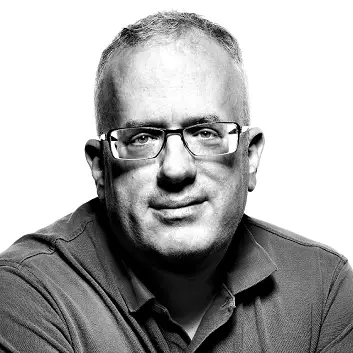
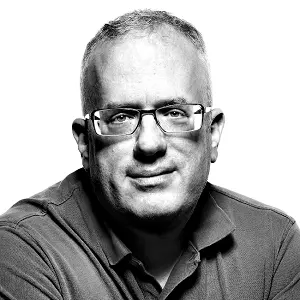
Updates

diff --git a/css/styles.css b/css/styles.css
@@ -1,1 +1,1 @@
-:root{--primary: #000000;--inverted: #ffffff;--light-grey: #948a82;--yellow: #ffe32d;--blue: #000080;--border: 3px solid var(--primary);--transition: .5s;--el-size: 4rem;--rounded-el-radius: 50%}*,*::before,*::after{box-sizing:border-box}html,body{font-weight:400 !important;font-style:normal;font-size:1rem;line-height:1.5;font-family:"Raleway",sans-serif;background-color:var(--light-grey)}html{scroll-behavior:smooth}a{color:var(--blue)}a:hover{text-decoration:underline !important}.center{display:flex;align-items:center;justify-content:center}.rounded-el{width:var(--el-size);height:var(--el-size);border-radius:var(--rounded-el-radius)}.scrollToTop{cursor:pointer;bottom:50rem;right:1.25rem;z-index:100000;border:var(--border);background-color:var(--yellow);visibility:hidden;opacity:0;transform:translateY(30%);transition:var(--transition);box-shadow:0 .625rem 3.125rem .625rem rgba(0,0,0,.5)}.scrollToTop.active{visibility:visible;opacity:1;bottom:25%}.scrollToTop:hover{background-color:var(--inverted)}#main{margin:0 auto;overflow-x:hidden;background-color:var(--light-grey)}.hero-container{border:var(--border);background-color:var(--inverted);box-shadow:0 .625rem 3.125rem .625rem rgba(0,0,0,.5)}.hero-container .img-container img{border:var(--border);box-shadow:0 .625rem 3.125rem .625rem rgba(0,0,0,.5);border-radius:var(--rounded-el-radius)}.hero-container .hero-caption{color:var(--primary);border-top:var(--border);background-color:var(--yellow);border-bottom-left-radius:.85rem;border-bottom-right-radius:.85rem}.main-timeline-content:after{content:"";top:0;left:50%;bottom:0;width:.1875rem;margin-left:-0.1875rem;position:absolute;background-color:var(--primary)}.main-timeline-content .timeline-content{width:50%}.main-timeline-content .timeline-content .timeline-dot{content:"";width:1.0625rem;height:1.0625rem;top:.875rem;right:-0.4375rem;z-index:1;background-color:var(--primary);border-radius:var(--rounded-el-radius)}.main-timeline-content .timeline-content.left-side{left:0;padding:0 2.5rem 1.25rem 0}.main-timeline-content .timeline-content.left-side .card:before{right:-0.625rem}.main-timeline-content .timeline-content.right-side{left:50%;padding:0 0 1.25rem 2.5rem}.main-timeline-content .timeline-content.right-side .timeline-dot{left:-0.625rem}.main-timeline-content .timeline-content.right-side .card:before{left:-0.625rem;transform:rotateY(180deg)}.main-timeline-content .timeline-content.left-side .card,.main-timeline-content .timeline-content.right-side .card{border:.1875rem solid var(--primary);background-color:var(--inverted)}.main-timeline-content .timeline-content.left-side .card:before,.main-timeline-content .timeline-content.right-side .card:before{content:" ";position:absolute;top:.625rem;z-index:1;border:var(--border);border-width:.625rem 0 .625rem .625rem;border-color:rgba(0,0,0,0) rgba(0,0,0,0) rgba(0,0,0,0) var(--primary)}.main-timeline-content .timeline-content.left-side .card .card-header,.main-timeline-content .timeline-content.right-side .card .card-header{background-color:var(--yellow);border-color:var(--primary);border-width:.1875rem;line-height:1}.main-timeline-content .timeline-content.left-side .card .card-body,.main-timeline-content .timeline-content.right-side .card .card-body{padding:.5rem 1rem}blockquote p,blockquote cite{color:var(--primary)}blockquote span{color:var(--inverted)}blockquote .quote-left,blockquote .quote-right{width:2rem;height:2rem}blockquote .quote-left{left:-1rem;top:-1rem}blockquote .quote-right{right:-1rem;bottom:-1rem}.socials-container{overflow:hidden}.socials-container h3{color:var(--primary)}.socials-container .social-links{max-width:30rem;gap:.5rem}.socials-container .social-links div{background-color:var(--inverted);border:.1875rem solid var(--yellow);border-radius:var(--rounded-el-radius);height:var(--el-size);width:var(--el-size);transition:all .5s ease-out}.socials-container .social-links div.website-link .link-dark,.socials-container .social-links div.website-link .link-light,.socials-container .social-links div.website-link .fb-logo-dark,.socials-container .social-links div.website-link .fb-logo-light,.socials-container .social-links div.website-link .fa-twitter,.socials-container .social-links div.website-link .fa-instagram,.socials-container .social-links div.fb-logo .link-dark,.socials-container .social-links div.fb-logo .link-light,.socials-container .social-links div.fb-logo .fb-logo-dark,.socials-container .social-links div.fb-logo .fb-logo-light,.socials-container .social-links div.fb-logo .fa-twitter,.socials-container .social-links div.fb-logo .fa-instagram,.socials-container .social-links div.twitter-logo .link-dark,.socials-container .social-links div.twitter-logo .link-light,.socials-container .social-links div.twitter-logo .fb-logo-dark,.socials-container .social-links div.twitter-logo .fb-logo-light,.socials-container .social-links div.twitter-logo .fa-twitter,.socials-container .social-links div.twitter-logo .fa-instagram,.socials-container .social-links div.instagram-logo .link-dark,.socials-container .social-links div.instagram-logo .link-light,.socials-container .social-links div.instagram-logo .fb-logo-dark,.socials-container .social-links div.instagram-logo .fb-logo-light,.socials-container .social-links div.instagram-logo .fa-twitter,.socials-container .social-links div.instagram-logo .fa-instagram,.socials-container .social-links div.mastodon-logo .link-dark,.socials-container .social-links div.mastodon-logo .link-light,.socials-container .social-links div.mastodon-logo .fb-logo-dark,.socials-container .social-links div.mastodon-logo .fb-logo-light,.socials-container .social-links div.mastodon-logo .fa-twitter,.socials-container .social-links div.mastodon-logo .fa-instagram{width:2.5rem;height:2.5rem}.socials-container .social-links div.website-link .link-light,.socials-container .social-links div.website-link .fb-logo-light,.socials-container .social-links div.website-link .twitter-light,.socials-container .social-links div.website-link .instagram-light,.socials-container .social-links div.website-link .mastodon-light,.socials-container .social-links div.fb-logo .link-light,.socials-container .social-links div.fb-logo .fb-logo-light,.socials-container .social-links div.fb-logo .twitter-light,.socials-container .social-links div.fb-logo .instagram-light,.socials-container .social-links div.fb-logo .mastodon-light,.socials-container .social-links div.twitter-logo .link-light,.socials-container .social-links div.twitter-logo .fb-logo-light,.socials-container .social-links div.twitter-logo .twitter-light,.socials-container .social-links div.twitter-logo .instagram-light,.socials-container .social-links div.twitter-logo .mastodon-light,.socials-container .social-links div.instagram-logo .link-light,.socials-container .social-links div.instagram-logo .fb-logo-light,.socials-container .social-links div.instagram-logo .twitter-light,.socials-container .social-links div.instagram-logo .instagram-light,.socials-container .social-links div.instagram-logo .mastodon-light,.socials-container .social-links div.mastodon-logo .link-light,.socials-container .social-links div.mastodon-logo .fb-logo-light,.socials-container .social-links div.mastodon-logo .twitter-light,.socials-container .social-links div.mastodon-logo .instagram-light,.socials-container .social-links div.mastodon-logo .mastodon-light{display:none}.socials-container .social-links div.website-link:hover .link-dark,.socials-container .social-links div.website-link:hover .fb-logo-dark,.socials-container .social-links div.website-link:hover .twitter-dark,.socials-container .social-links div.website-link:hover .instagram-dark,.socials-container .social-links div.website-link:hover .mastodon-dark,.socials-container .social-links div.fb-logo:hover .link-dark,.socials-container .social-links div.fb-logo:hover .fb-logo-dark,.socials-container .social-links div.fb-logo:hover .twitter-dark,.socials-container .social-links div.fb-logo:hover .instagram-dark,.socials-container .social-links div.fb-logo:hover .mastodon-dark,.socials-container .social-links div.twitter-logo:hover .link-dark,.socials-container .social-links div.twitter-logo:hover .fb-logo-dark,.socials-container .social-links div.twitter-logo:hover .twitter-dark,.socials-container .social-links div.twitter-logo:hover .instagram-dark,.socials-container .social-links div.twitter-logo:hover .mastodon-dark,.socials-container .social-links div.instagram-logo:hover .link-dark,.socials-container .social-links div.instagram-logo:hover .fb-logo-dark,.socials-container .social-links div.instagram-logo:hover .twitter-dark,.socials-container .social-links div.instagram-logo:hover .instagram-dark,.socials-container .social-links div.instagram-logo:hover .mastodon-dark,.socials-container .social-links div.mastodon-logo:hover .link-dark,.socials-container .social-links div.mastodon-logo:hover .fb-logo-dark,.socials-container .social-links div.mastodon-logo:hover .twitter-dark,.socials-container .social-links div.mastodon-logo:hover .instagram-dark,.socials-container .social-links div.mastodon-logo:hover .mastodon-dark{display:none}.socials-container .social-links div.website-link:hover .link-light,.socials-container .social-links div.website-link:hover .fb-logo-light,.socials-container .social-links div.website-link:hover .twitter-light,.socials-container .social-links div.website-link:hover .instagram-light,.socials-container .social-links div.website-link:hover .mastodon-light,.socials-container .social-links div.fb-logo:hover .link-light,.socials-container .social-links div.fb-logo:hover .fb-logo-light,.socials-container .social-links div.fb-logo:hover .twitter-light,.socials-container .social-links div.fb-logo:hover .instagram-light,.socials-container .social-links div.fb-logo:hover .mastodon-light,.socials-container .social-links div.twitter-logo:hover .link-light,.socials-container .social-links div.twitter-logo:hover .fb-logo-light,.socials-container .social-links div.twitter-logo:hover .twitter-light,.socials-container .social-links div.twitter-logo:hover .instagram-light,.socials-container .social-links div.twitter-logo:hover .mastodon-light,.socials-container .social-links div.instagram-logo:hover .link-light,.socials-container .social-links div.instagram-logo:hover .fb-logo-light,.socials-container .social-links div.instagram-logo:hover .twitter-light,.socials-container .social-links div.instagram-logo:hover .instagram-light,.socials-container .social-links div.instagram-logo:hover .mastodon-light,.socials-container .social-links div.mastodon-logo:hover .link-light,.socials-container .social-links div.mastodon-logo:hover .fb-logo-light,.socials-container .social-links div.mastodon-logo:hover .twitter-light,.socials-container .social-links div.mastodon-logo:hover .instagram-light,.socials-container .social-links div.mastodon-logo:hover .mastodon-light{display:flex}.socials-container .social-links div:hover{transform:translateY(-25%);transition:var(--transition);background-color:var(--primary)}.socials-container .social-links div a{padding:.75rem;color:var(--primary)}.socials-container .wiki-ref .wiki-link{color:var(--inverted)}.fade-in-right[data-scroll]{opacity:0;will-change:transform,scale,opacity;transform:translateY(6rem) scale(0.93);transition:all 1.5s cubic-bezier(0.165, 0.84, 0.44, 1)}.fade-in-left[data-scroll]{opacity:0;will-change:transform,scale,opacity;transform:translatex(-6rem) scale(0.93);transition:all 1.5s cubic-bezier(0.165, 0.84, 0.44, 1)}.fade-in-right[data-scroll=in],.fade-in-left[data-scroll=in]{opacity:1;transform:translateY(0) scale(1)}#footer{background-color:var(--yellow);border:var(--border)}#footer p{color:var(--primary)}#footer p a{color:var(--blue)}@media(max-width: 767px){#main h1.fs-2,#main p.fs-2,#main span.fs-2{font-size:1.5rem !important}#main .hero-caption .lead{font-size:1.125rem !important}#main .main-timeline-content:after{left:.375rem}#main .main-timeline-content .timeline-content{width:100%;padding-left:1.875rem;padding-right:0}#main .main-timeline-content .timeline-content .timeline-dot{left:-0.25rem}#main .main-timeline-content .timeline-content:before{left:2.875rem;border:var(--border);border-width:.625rem .625rem .625rem 0;border-color:rgba(0,0,0,0) var(--primary) rgba(0,0,0,0) rgba(0,0,0,0)}#main .main-timeline-content .timeline-content.left-side .card:before{right:100%;transform:rotateY(180deg)}#main .main-timeline-content .timeline-content.right-side{left:0%}#main .main-timeline-content .timeline-content.left-side::after,#main .main-timeline-content .timeline-content.right-side::after{left:-0.5rem}#main .socials-container .social-links div{width:3rem;height:3rem}#main .socials-container .social-links div.website-link .link-light,#main .socials-container .social-links div.website-link .link-dark{width:1.5rem;height:1.5rem}#main .socials-container .social-links div.fb-logo .fb-logo-light,#main .socials-container .social-links div.fb-logo .fb-logo-dark{width:2rem;height:2rem}#main .socials-container .social-links div a{padding:.5rem}}@media(min-width: 768px){p.fs-6{font-size:1.25rem !important}h2.small,span.small{font-size:1.125rem !important}.clock-icon{margin-bottom:.25rem}.social-links{gap:2rem !important}}@media(min-width: 1200px){p.fs-2,h3.fs-2{font-size:1.5rem !important}}
+:root{--primary: #000000;--inverted: #ffffff;--light-grey: #948a82;--yellow: #ffe32d;--blue: #000080;--border: 3px solid var(--primary);--transition: .5s;--el-size: 4rem;--rounded-el-radius: 50%}*,*::before,*::after{box-sizing:border-box}html,body{font-weight:400 !important;font-style:normal;font-size:1rem;line-height:1.5;font-family:"Raleway",sans-serif;background-color:var(--light-grey)}html{scroll-behavior:smooth}a{color:var(--blue)}a:hover{text-decoration:underline !important}.center{display:flex;align-items:center;justify-content:center}.rounded-el{width:var(--el-size);height:var(--el-size);border-radius:var(--rounded-el-radius)}.scrollToTop{cursor:pointer;bottom:50rem;right:1.25rem;z-index:100000;border:var(--border);background-color:var(--yellow);visibility:hidden;opacity:0;transform:translateY(30%);transition:var(--transition);box-shadow:0 .625rem 3.125rem .625rem rgba(0,0,0,.5)}.scrollToTop.active{visibility:visible;opacity:1;bottom:25%}.scrollToTop:hover{background-color:var(--inverted)}#main{margin:0 auto;overflow-x:hidden;background-color:var(--light-grey)}.hero-container{border:var(--border);background-color:var(--inverted);box-shadow:0 .625rem 3.125rem .625rem rgba(0,0,0,.5)}.hero-container .img-container img{border:var(--border);box-shadow:0 .625rem 3.125rem .625rem rgba(0,0,0,.5);border-radius:var(--rounded-el-radius)}.hero-container .img-container img#hero-img-small{display:flex}.hero-container .img-container img#hero-img-large{display:none}.hero-container .hero-caption{color:var(--primary);border-top:var(--border);background-color:var(--yellow);border-bottom-left-radius:.85rem;border-bottom-right-radius:.85rem}.main-timeline-content:after{content:"";top:0;left:50%;bottom:0;width:.1875rem;margin-left:-0.1875rem;position:absolute;background-color:var(--primary)}.main-timeline-content .timeline-content{width:50%}.main-timeline-content .timeline-content .timeline-dot{content:"";width:1.0625rem;height:1.0625rem;top:.875rem;right:-0.4375rem;z-index:1;background-color:var(--primary);border-radius:var(--rounded-el-radius)}.main-timeline-content .timeline-content.left-side{left:0;padding:0 2.5rem 1.25rem 0}.main-timeline-content .timeline-content.left-side .card:before{right:-0.625rem}.main-timeline-content .timeline-content.right-side{left:50%;padding:0 0 1.25rem 2.5rem}.main-timeline-content .timeline-content.right-side .timeline-dot{left:-0.625rem}.main-timeline-content .timeline-content.right-side .card:before{left:-0.625rem;transform:rotateY(180deg)}.main-timeline-content .timeline-content.left-side .card,.main-timeline-content .timeline-content.right-side .card{border:.1875rem solid var(--primary);background-color:var(--inverted)}.main-timeline-content .timeline-content.left-side .card:before,.main-timeline-content .timeline-content.right-side .card:before{content:" ";position:absolute;top:.625rem;z-index:1;border:var(--border);border-width:.625rem 0 .625rem .625rem;border-color:rgba(0,0,0,0) rgba(0,0,0,0) rgba(0,0,0,0) var(--primary)}.main-timeline-content .timeline-content.left-side .card .card-header,.main-timeline-content .timeline-content.right-side .card .card-header{background-color:var(--yellow);border-color:var(--primary);border-width:.1875rem;line-height:1}.main-timeline-content .timeline-content.left-side .card .card-body,.main-timeline-content .timeline-content.right-side .card .card-body{padding:.5rem 1rem}blockquote p,blockquote cite{color:var(--primary)}blockquote span{color:var(--inverted)}blockquote .quote-left,blockquote .quote-right{width:2rem;height:2rem}blockquote .quote-left{left:-1rem;top:-1rem}blockquote .quote-right{right:-1rem;bottom:-1rem}.socials-container{overflow:hidden}.socials-container h3{color:var(--primary)}.socials-container .social-links{max-width:30rem;gap:.5rem}.socials-container .social-links div{background-color:var(--inverted);border:.1875rem solid var(--yellow);border-radius:var(--rounded-el-radius);height:var(--el-size);width:var(--el-size);transition:all .5s ease-out}.socials-container .social-links div.website-link .link-dark,.socials-container .social-links div.website-link .link-light,.socials-container .social-links div.website-link .fb-logo-dark,.socials-container .social-links div.website-link .fb-logo-light,.socials-container .social-links div.website-link .fa-twitter,.socials-container .social-links div.website-link .fa-instagram,.socials-container .social-links div.fb-logo .link-dark,.socials-container .social-links div.fb-logo .link-light,.socials-container .social-links div.fb-logo .fb-logo-dark,.socials-container .social-links div.fb-logo .fb-logo-light,.socials-container .social-links div.fb-logo .fa-twitter,.socials-container .social-links div.fb-logo .fa-instagram,.socials-container .social-links div.twitter-logo .link-dark,.socials-container .social-links div.twitter-logo .link-light,.socials-container .social-links div.twitter-logo .fb-logo-dark,.socials-container .social-links div.twitter-logo .fb-logo-light,.socials-container .social-links div.twitter-logo .fa-twitter,.socials-container .social-links div.twitter-logo .fa-instagram,.socials-container .social-links div.instagram-logo .link-dark,.socials-container .social-links div.instagram-logo .link-light,.socials-container .social-links div.instagram-logo .fb-logo-dark,.socials-container .social-links div.instagram-logo .fb-logo-light,.socials-container .social-links div.instagram-logo .fa-twitter,.socials-container .social-links div.instagram-logo .fa-instagram,.socials-container .social-links div.mastodon-logo .link-dark,.socials-container .social-links div.mastodon-logo .link-light,.socials-container .social-links div.mastodon-logo .fb-logo-dark,.socials-container .social-links div.mastodon-logo .fb-logo-light,.socials-container .social-links div.mastodon-logo .fa-twitter,.socials-container .social-links div.mastodon-logo .fa-instagram{width:2.5rem;height:2.5rem}.socials-container .social-links div.website-link .link-light,.socials-container .social-links div.website-link .fb-logo-light,.socials-container .social-links div.website-link .twitter-light,.socials-container .social-links div.website-link .instagram-light,.socials-container .social-links div.website-link .mastodon-light,.socials-container .social-links div.fb-logo .link-light,.socials-container .social-links div.fb-logo .fb-logo-light,.socials-container .social-links div.fb-logo .twitter-light,.socials-container .social-links div.fb-logo .instagram-light,.socials-container .social-links div.fb-logo .mastodon-light,.socials-container .social-links div.twitter-logo .link-light,.socials-container .social-links div.twitter-logo .fb-logo-light,.socials-container .social-links div.twitter-logo .twitter-light,.socials-container .social-links div.twitter-logo .instagram-light,.socials-container .social-links div.twitter-logo .mastodon-light,.socials-container .social-links div.instagram-logo .link-light,.socials-container .social-links div.instagram-logo .fb-logo-light,.socials-container .social-links div.instagram-logo .twitter-light,.socials-container .social-links div.instagram-logo .instagram-light,.socials-container .social-links div.instagram-logo .mastodon-light,.socials-container .social-links div.mastodon-logo .link-light,.socials-container .social-links div.mastodon-logo .fb-logo-light,.socials-container .social-links div.mastodon-logo .twitter-light,.socials-container .social-links div.mastodon-logo .instagram-light,.socials-container .social-links div.mastodon-logo .mastodon-light{display:none}.socials-container .social-links div.website-link:hover .link-dark,.socials-container .social-links div.website-link:hover .fb-logo-dark,.socials-container .social-links div.website-link:hover .twitter-dark,.socials-container .social-links div.website-link:hover .instagram-dark,.socials-container .social-links div.website-link:hover .mastodon-dark,.socials-container .social-links div.fb-logo:hover .link-dark,.socials-container .social-links div.fb-logo:hover .fb-logo-dark,.socials-container .social-links div.fb-logo:hover .twitter-dark,.socials-container .social-links div.fb-logo:hover .instagram-dark,.socials-container .social-links div.fb-logo:hover .mastodon-dark,.socials-container .social-links div.twitter-logo:hover .link-dark,.socials-container .social-links div.twitter-logo:hover .fb-logo-dark,.socials-container .social-links div.twitter-logo:hover .twitter-dark,.socials-container .social-links div.twitter-logo:hover .instagram-dark,.socials-container .social-links div.twitter-logo:hover .mastodon-dark,.socials-container .social-links div.instagram-logo:hover .link-dark,.socials-container .social-links div.instagram-logo:hover .fb-logo-dark,.socials-container .social-links div.instagram-logo:hover .twitter-dark,.socials-container .social-links div.instagram-logo:hover .instagram-dark,.socials-container .social-links div.instagram-logo:hover .mastodon-dark,.socials-container .social-links div.mastodon-logo:hover .link-dark,.socials-container .social-links div.mastodon-logo:hover .fb-logo-dark,.socials-container .social-links div.mastodon-logo:hover .twitter-dark,.socials-container .social-links div.mastodon-logo:hover .instagram-dark,.socials-container .social-links div.mastodon-logo:hover .mastodon-dark{display:none}.socials-container .social-links div.website-link:hover .link-light,.socials-container .social-links div.website-link:hover .fb-logo-light,.socials-container .social-links div.website-link:hover .twitter-light,.socials-container .social-links div.website-link:hover .instagram-light,.socials-container .social-links div.website-link:hover .mastodon-light,.socials-container .social-links div.fb-logo:hover .link-light,.socials-container .social-links div.fb-logo:hover .fb-logo-light,.socials-container .social-links div.fb-logo:hover .twitter-light,.socials-container .social-links div.fb-logo:hover .instagram-light,.socials-container .social-links div.fb-logo:hover .mastodon-light,.socials-container .social-links div.twitter-logo:hover .link-light,.socials-container .social-links div.twitter-logo:hover .fb-logo-light,.socials-container .social-links div.twitter-logo:hover .twitter-light,.socials-container .social-links div.twitter-logo:hover .instagram-light,.socials-container .social-links div.twitter-logo:hover .mastodon-light,.socials-container .social-links div.instagram-logo:hover .link-light,.socials-container .social-links div.instagram-logo:hover .fb-logo-light,.socials-container .social-links div.instagram-logo:hover .twitter-light,.socials-container .social-links div.instagram-logo:hover .instagram-light,.socials-container .social-links div.instagram-logo:hover .mastodon-light,.socials-container .social-links div.mastodon-logo:hover .link-light,.socials-container .social-links div.mastodon-logo:hover .fb-logo-light,.socials-container .social-links div.mastodon-logo:hover .twitter-light,.socials-container .social-links div.mastodon-logo:hover .instagram-light,.socials-container .social-links div.mastodon-logo:hover .mastodon-light{display:flex}.socials-container .social-links div:hover{transform:translateY(-25%);transition:var(--transition);background-color:var(--primary)}.socials-container .social-links div a{padding:.75rem;color:var(--primary)}.socials-container .wiki-ref .wiki-link{color:var(--inverted)}.fade-in-right[data-scroll]{opacity:0;will-change:transform,scale,opacity;transform:translateY(6rem) scale(0.93);transition:all 1.5s cubic-bezier(0.165, 0.84, 0.44, 1)}.fade-in-left[data-scroll]{opacity:0;will-change:transform,scale,opacity;transform:translatex(-6rem) scale(0.93);transition:all 1.5s cubic-bezier(0.165, 0.84, 0.44, 1)}.fade-in-right[data-scroll=in],.fade-in-left[data-scroll=in]{opacity:1;transform:translateY(0) scale(1)}#footer{background-color:var(--yellow);border:var(--border)}#footer p{color:var(--primary)}#footer p a{color:var(--blue)}@media(max-width: 767px){#main h1.fs-2,#main p.fs-2,#main span.fs-2{font-size:1.5rem !important}#main .hero-caption .lead{font-size:1.125rem !important}#main .main-timeline-content:after{left:.375rem}#main .main-timeline-content .timeline-content{width:100%;padding-left:1.875rem;padding-right:0}#main .main-timeline-content .timeline-content .timeline-dot{left:-0.25rem}#main .main-timeline-content .timeline-content:before{left:2.875rem;border:var(--border);border-width:.625rem .625rem .625rem 0;border-color:rgba(0,0,0,0) var(--primary) rgba(0,0,0,0) rgba(0,0,0,0)}#main .main-timeline-content .timeline-content.left-side .card:before{right:100%;transform:rotateY(180deg)}#main .main-timeline-content .timeline-content.right-side{left:0%}#main .main-timeline-content .timeline-content.left-side::after,#main .main-timeline-content .timeline-content.right-side::after{left:-0.5rem}#main .socials-container .social-links div{width:3rem;height:3rem}#main .socials-container .social-links div.website-link .link-light,#main .socials-container .social-links div.website-link .link-dark{width:1.5rem;height:1.5rem}#main .socials-container .social-links div.fb-logo .fb-logo-light,#main .socials-container .social-links div.fb-logo .fb-logo-dark{width:2rem;height:2rem}#main .socials-container .social-links div a{padding:.5rem}}@media(min-width: 768px){p.fs-6{font-size:1.25rem !important}h2.small,span.small{font-size:1.125rem !important}.clock-icon{margin-bottom:.25rem}.hero-container .img-container img#hero-img-small{display:none}.hero-container .img-container img#hero-img-large{display:flex}.social-links{gap:2rem !important}}@media(min-width: 1200px){p.fs-2,h3.fs-2{font-size:1.5rem !important}}

diff --git a/index.html b/index.html
@@ -31,9 +31,8 @@
     <!-- Preload Google Font -->
     <link rel="preconnect" href="https://fonts.gstatic.com" crossorigin>
     <link rel="preload" href="https://fonts.googleapis.com/css2?family=Raleway:ital,wght@0,100..900;1,100..900&display=swap" as="style" onload="this.onload=null;this.rel='stylesheet'">
-    <link rel="preload" href="./img/hero.webp" as="image" type="image/webp" fetchpriority="high">
-    <!-- <link rel="preload" href="./img/hero-small.webp" as="image" type="image/webp" media="(max-width: 767px)" fetchpriority="high">
-    <link rel="preload" href="./img/hero-large.webp" as="image" type="image/webp" media="(max-width: 768px)" fetchpriority="high"> -->
+    <link rel="preload" href="./img/hero-small.webp" as="image" type="image/webp" media="(max-width: 767px)" fetchpriority="high">
+    <link rel="preload" href="./img/hero-large.webp" as="image" type="image/webp" media="(max-width: 768px)" fetchpriority="high">
 
     <!-- Main stylesheets: Bootstrap and my own styles -->
     <link rel="stylesheet" href="purged-bootstrap.min.css" fetchpriority="high">
@@ -57,10 +56,10 @@
         <div class="img-container center flex-column p-3 pb-2">
           <img id="hero-img" class="img-fluid" width="200" height="200" src="./img/hero.webp"
             alt="Brendan Eich" title="Brendan Eich, official Mozilla Foundation photograph, August 21, 2012">
-          <!-- <img id="hero-img-small" class="img-fluid" width="150" height="150" src="./img/hero-small.webp"
+          <img id="hero-img-small" class="img-fluid" width="150" height="150" src="./img/hero-small.webp"
             alt="Brendan Eich" title="Brendan Eich, official Mozilla Foundation photograph, August 21, 2012">
           <img id="hero-img-large" class="img-fluid" width="353" height="353" src="./img/hero-large.webp"
-            alt="Brendan Eich" title="Brendan Eich, official Mozilla Foundation photograph, August 21, 2012"> -->
+            alt="Brendan Eich" title="Brendan Eich, official Mozilla Foundation photograph, August 21, 2012">
         </div>
         <div class="col-lg-6 mx-auto"> 
           <h1 class="fs-2 fw-bold text-body-emphasis mb-0">Brendan Eich</h1>
